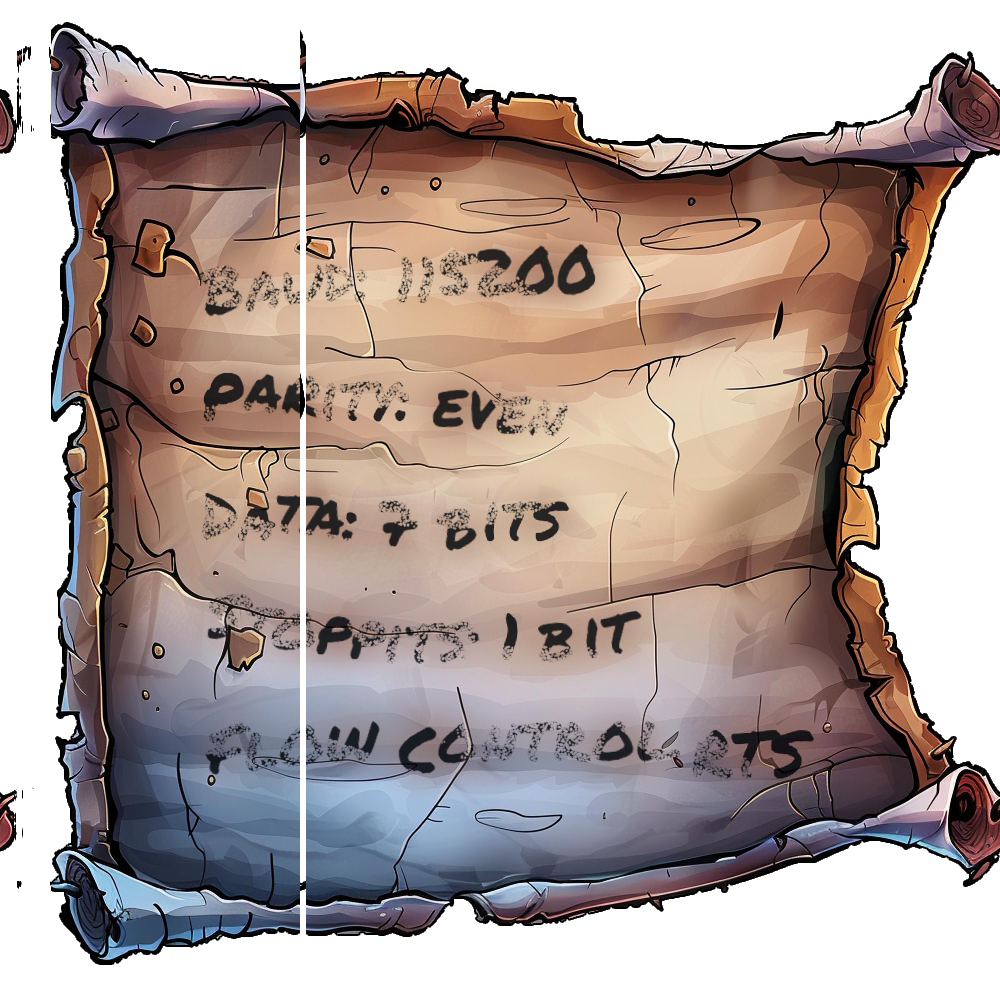
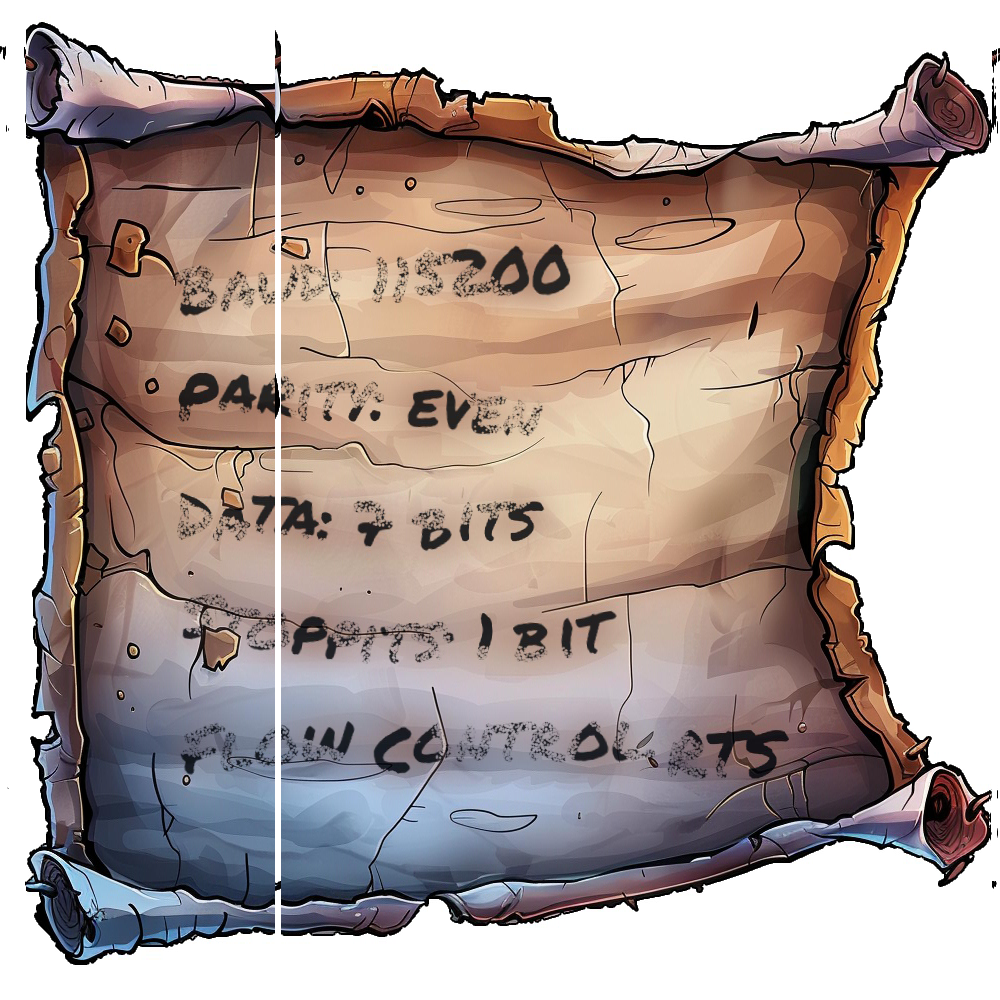
Slightly improve x shift

diff --git a/content/writeups/holiday-hack-challenge/2024/act1/hardware-hacking-part1.md b/content/writeups/holiday-hack-challenge/2024/act1/hardware-hacking-part1.md
@@ -217,7 +217,7 @@ im = Image.open("assembled_image.png")
 
 xsize, ysize = im.size
 
-delta = 300  # amount to move x-axis
+delta = 275  # amount to move x-axis
 
 part1 = im.crop((0, 0, delta, ysize))  # take left part
 part2 = im.crop((delta, 0, xsize, ysize))  # take right part
